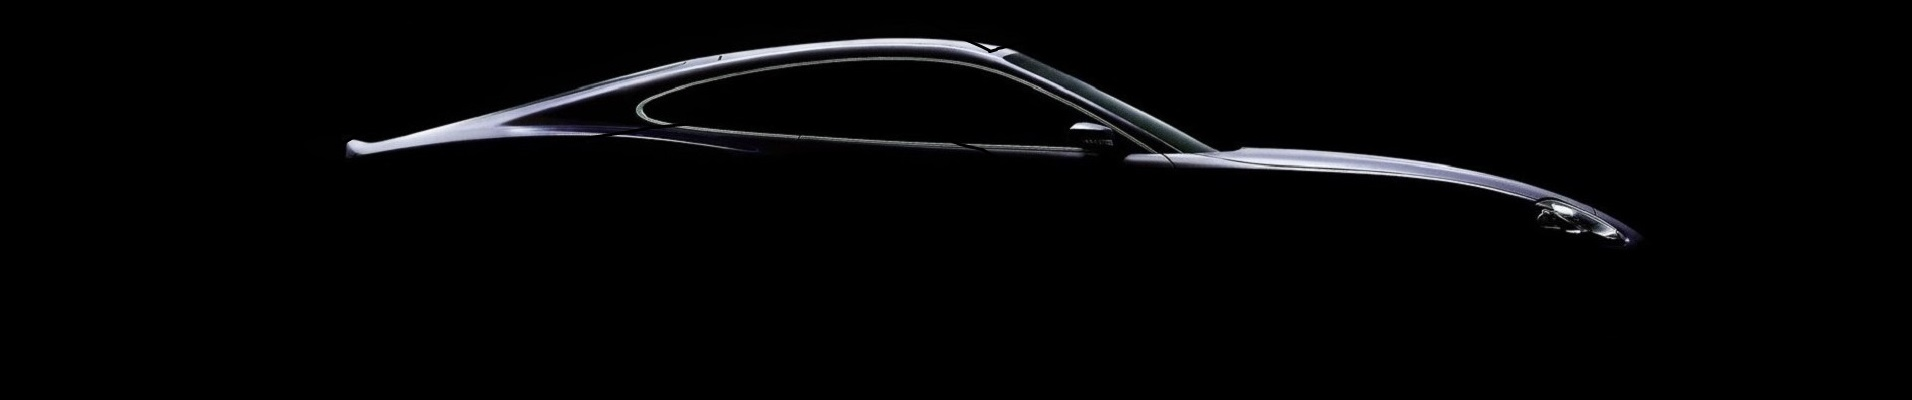
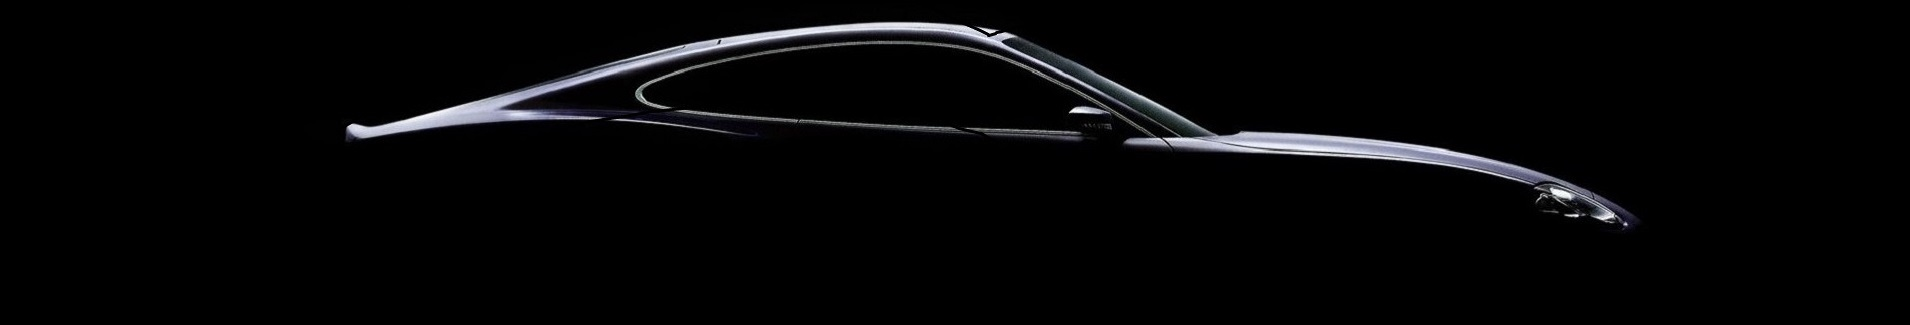
Mobile styling for header

Changed region(s): [[0.1545, 0.0615, 0.8649, 0.7077], [0.3707, 0.4, 0.4016, 0.4308]]

diff --git a/src/components/Header.js b/src/components/Header.js
@@ -7,22 +7,22 @@ class Header extends Component {
             <div>
                 <header>
                     <Carousel>
-                        <Carousel.Item style = {{'height': "300px", 'width':"100%"}}>
-                            <img style = {{'height' : "300px"}} className="d-block w-100" src = {'img/car-header.jpg'} />
+                        <Carousel.Item style = {{'height': "325px", 'width':"100%"}}>
+                            <img className="d-block w-100" src = {'img/car-header.jpg'} />
                             <Carousel.Caption>
                                 <h3>All the cars you could ever want.</h3>
                             </Carousel.Caption>
                         </Carousel.Item>
 
-                        <Carousel.Item style = {{'height': "300px", 'width':"100%"}}>
-                            <img style = {{'height' : "300px"}} className="d-block w-100" src = {'img/parts-header.jpg'} />
+                        <Carousel.Item style = {{'height': "325px", 'width':"100%"}}>
+                            <img className="d-block w-100" src = {'img/parts-header.jpg'} />
                             <Carousel.Caption>
                                 <h3>All the parts you will ever need.</h3>
                             </Carousel.Caption>
                         </Carousel.Item>
 
-                        <Carousel.Item style = {{'height': "300px", 'width':"100%"}}>
-                            <img style = {{'height' : "300px"}} className="d-block w-100" src = {'img/logo-header.png'} />
+                        <Carousel.Item style = {{'height': "325px", 'width':"100%"}}>
+                            <img className="d-block w-100" src = {'img/logo-header.png'} />
                             <Carousel.Caption>
                                 <h3>All in one convenient online store.</h3>
                             </Carousel.Caption>
